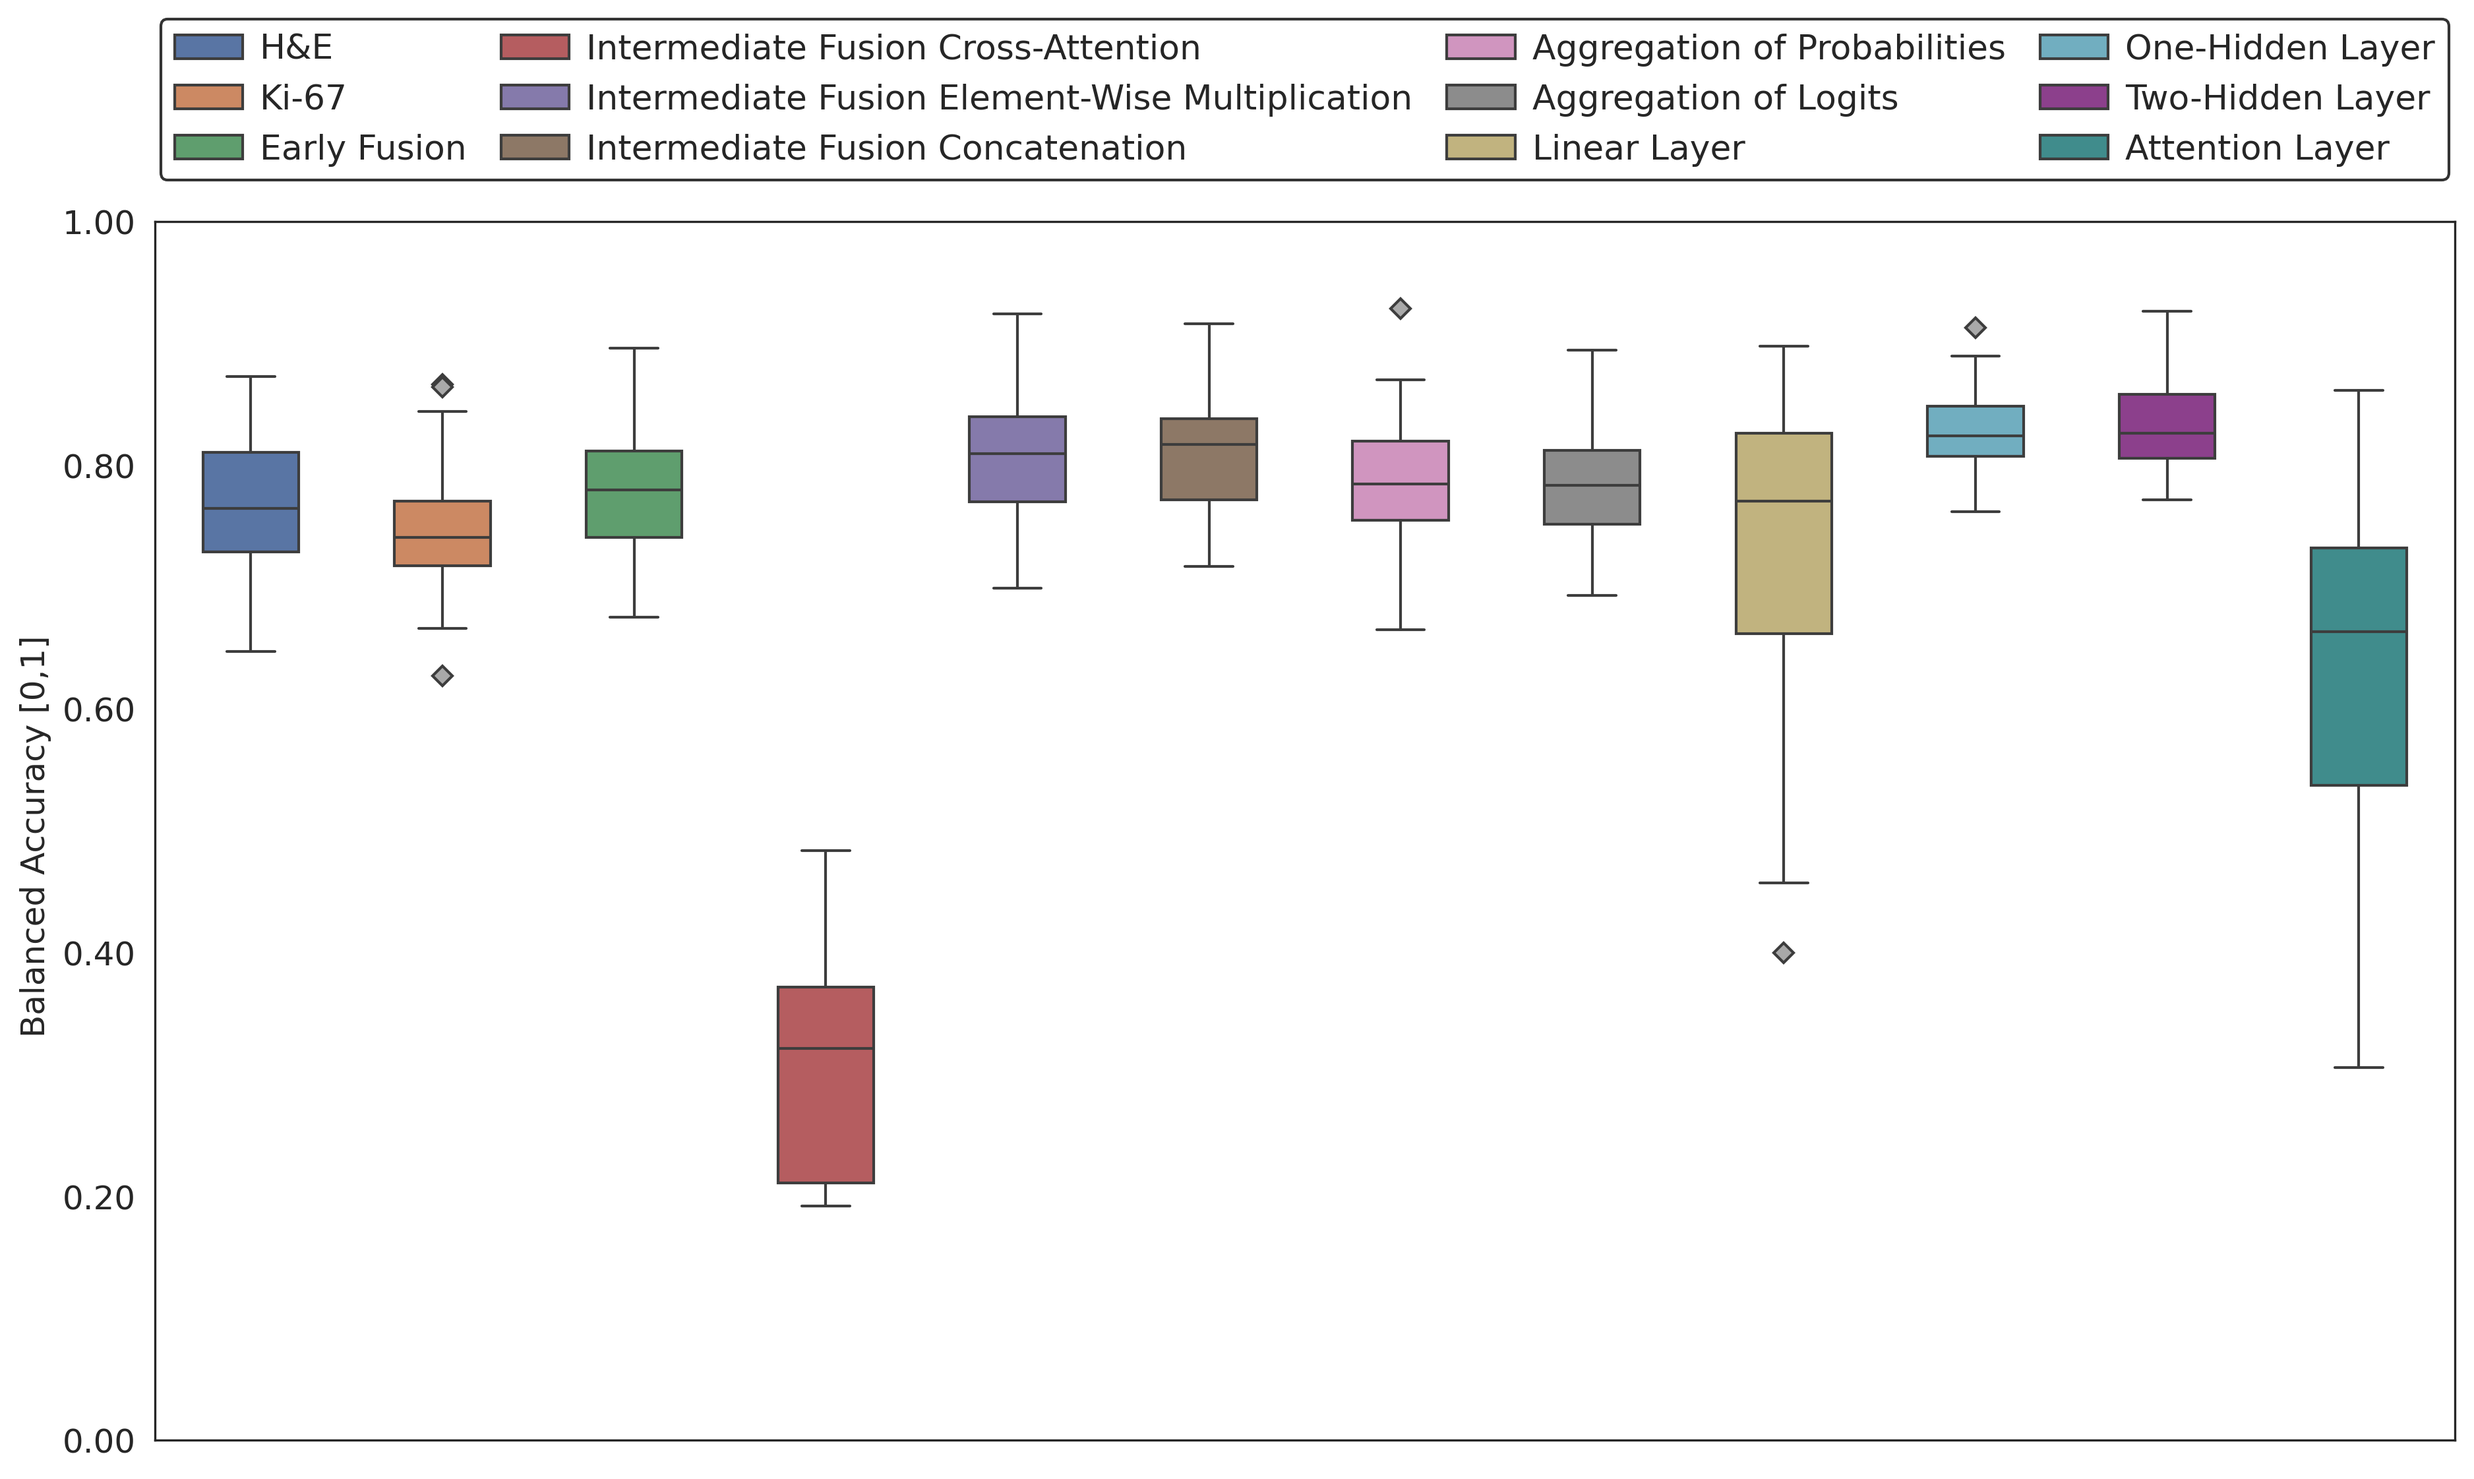
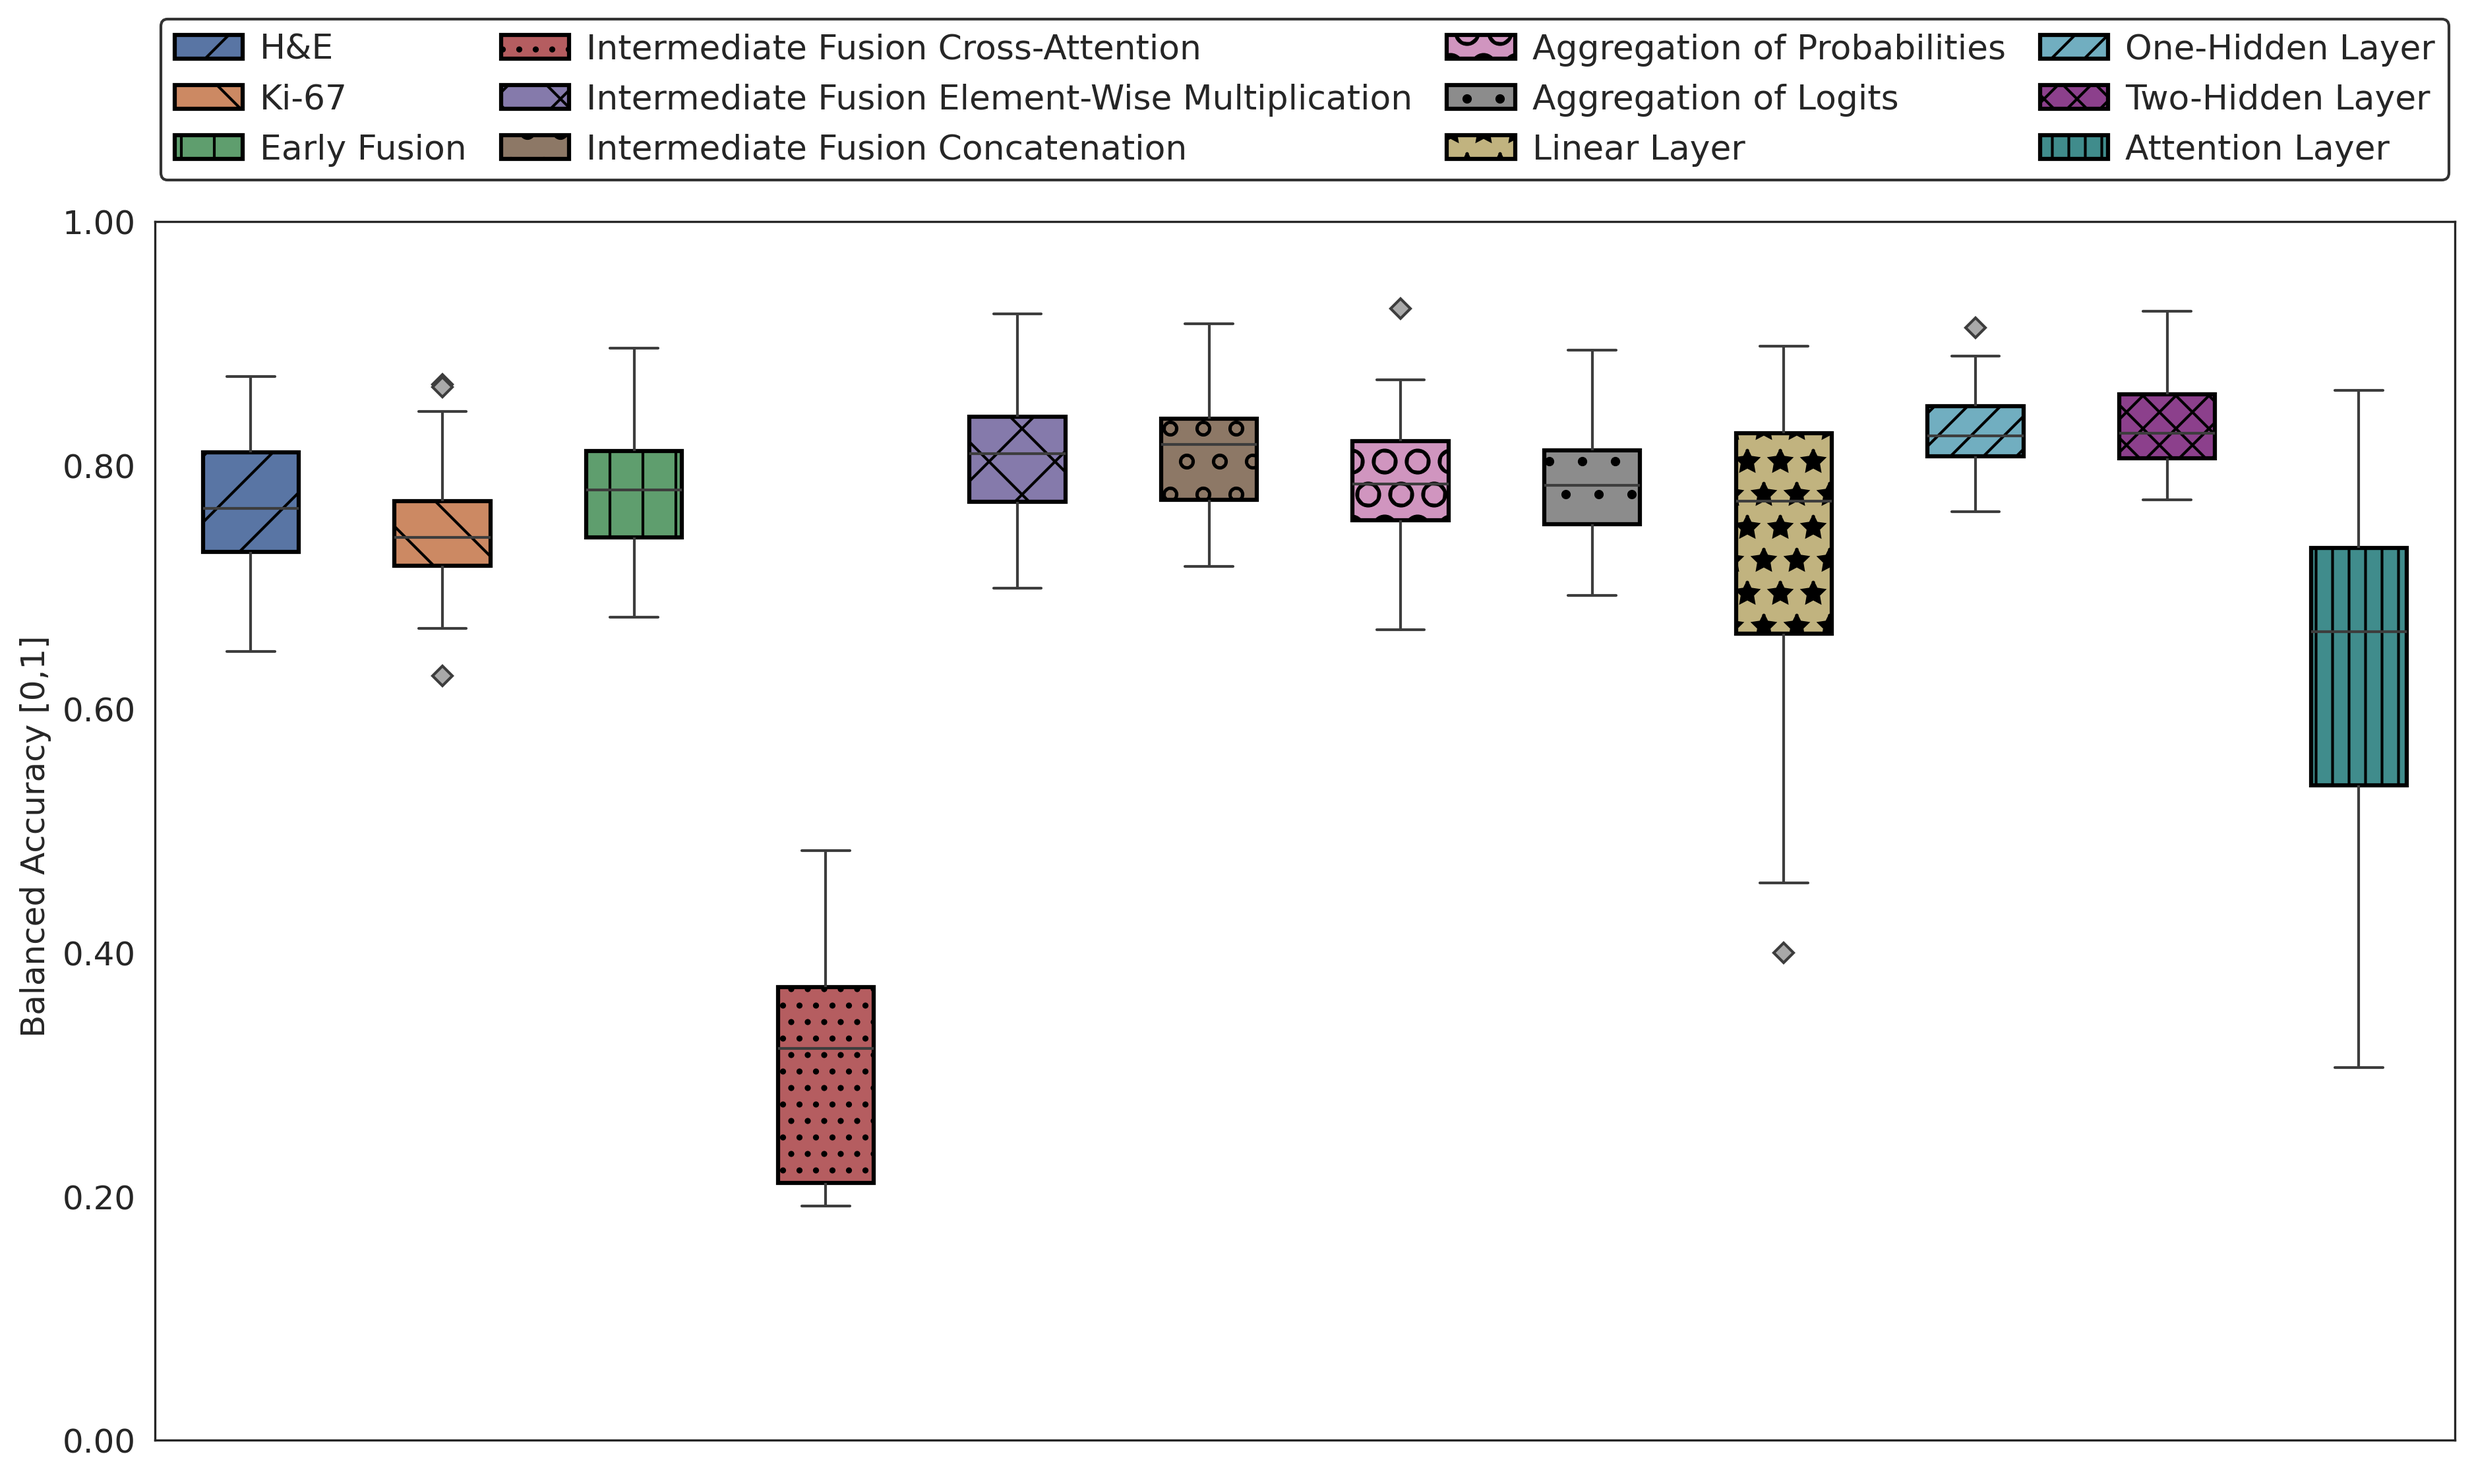
added hatches in boxplots

diff --git a/evaluation/boxplots_5_class.py b/evaluation/boxplots_5_class.py
@@ -56,6 +56,15 @@ plt.gca().set_facecolor('white')  # set the background of the plot to pure white
 flierprops = dict(marker='D', markerfacecolor='darkgrey', markersize=5, linestyle='none')
 
 boxplot = sns.boxplot(x='Configuration', y='BA', data=summary_results, hue="Fusion_Legend", palette=custom_colors, flierprops=flierprops, width=0.5)
+
+# Apply hatch patterns to boxes
+hatches = ['/', '\\', '|', '..', 'x', 'o', 'O', '.', '*', '//', 'xx', '||']
+for i, patch in enumerate(boxplot.patches):
+    hatch = hatches[i % len(hatches)]
+    patch.set_hatch(hatch)
+    patch.set_edgecolor('black')
+    patch.set_linewidth(1.5)
+
 legend = plt.legend(loc='upper center', bbox_to_anchor=(0.5, 1.18), ncol=4, fontsize=12.44, columnspacing=1.0, handletextpad=0.5)  # place legend above with 4 columns and 3 rows
 legend.get_frame().set_facecolor('white')  # set legend box background color to white
 legend.get_frame().set_linewidth(1)  # make border more bold
@@ -94,6 +103,15 @@ plt.gca().set_facecolor('white')  # set the background of the plot to pure white
 flierprops = dict(marker='D', markerfacecolor='darkgrey', markersize=5, linestyle='none')
 
 boxplot = sns.boxplot(x='Configuration', y='MCC', data=summary_results, hue="Fusion_Legend", palette=custom_colors, flierprops=flierprops, width=0.5)
+
+# Apply hatch patterns to boxes
+hatches = ['/', '\\', '|', '..', 'x', 'o', 'O', '.', '*', '//', 'xx', '||']
+for i, patch in enumerate(boxplot.patches):
+    hatch = hatches[i % len(hatches)]
+    patch.set_hatch(hatch)
+    patch.set_edgecolor('black')
+    patch.set_linewidth(1.5)
+
 legend = plt.legend(loc='upper center', bbox_to_anchor=(0.5, 1.18), ncol=4, fontsize=12.44, columnspacing=1.0, handletextpad=0.5)  # place legend above with 4 columns and 3 rows
 legend.get_frame().set_facecolor('white')  # set legend box background color to white
 legend.get_frame().set_linewidth(1)  # make border more bold

diff --git a/evaluation/boxplots_LGG_vs_HGG.py b/evaluation/boxplots_LGG_vs_HGG.py
@@ -56,6 +56,15 @@ plt.gca().set_facecolor('white')  # set the background of the plot to pure white
 flierprops = dict(marker='D', markerfacecolor='darkgrey', markersize=5, linestyle='none')
 
 boxplot = sns.boxplot(x='Configuration', y='BA', data=summary_results, hue="Fusion_Legend", palette=custom_colors, flierprops=flierprops, width=0.5)
+
+# Apply hatch patterns to boxes
+hatches = ['/', '\\', '|', '..', 'x', 'o', 'O', '.', '*', '//', 'xx', '||']
+for i, patch in enumerate(boxplot.patches):
+    hatch = hatches[i % len(hatches)]
+    patch.set_hatch(hatch)
+    patch.set_edgecolor('black')
+    patch.set_linewidth(1.5)
+
 legend = plt.legend(loc='upper center', bbox_to_anchor=(0.5, 1.24), ncol=4, fontsize=12.44, columnspacing=1.0, handletextpad=0.5)  # place legend above with 4 columns and 3 rows
 legend.get_frame().set_facecolor('white')  # set legend box background color to white
 legend.get_frame().set_linewidth(1)  # make border more bold
@@ -94,6 +103,15 @@ plt.gca().set_facecolor('white')  # set the background of the plot to pure white
 flierprops = dict(marker='D', markerfacecolor='darkgrey', markersize=5, linestyle='none')
 
 boxplot = sns.boxplot(x='Configuration', y='MCC', data=summary_results, hue="Fusion_Legend", palette=custom_colors, flierprops=flierprops, width=0.5)
+
+# Apply hatch patterns to boxes
+hatches = ['/', '\\', '|', '..', 'x', 'o', 'O', '.', '*', '//', 'xx', '||']
+for i, patch in enumerate(boxplot.patches):
+    hatch = hatches[i % len(hatches)]
+    patch.set_hatch(hatch)
+    patch.set_edgecolor('black')
+    patch.set_linewidth(1.5)
+
 legend = plt.legend(loc='upper center', bbox_to_anchor=(0.5, 1.24), ncol=4, fontsize=12.44, columnspacing=1.0, handletextpad=0.5)  # place legend above with 4 columns and 3 rows
 legend.get_frame().set_facecolor('white')  # set legend box background color to white
 legend.get_frame().set_linewidth(1)  # make border more bold
